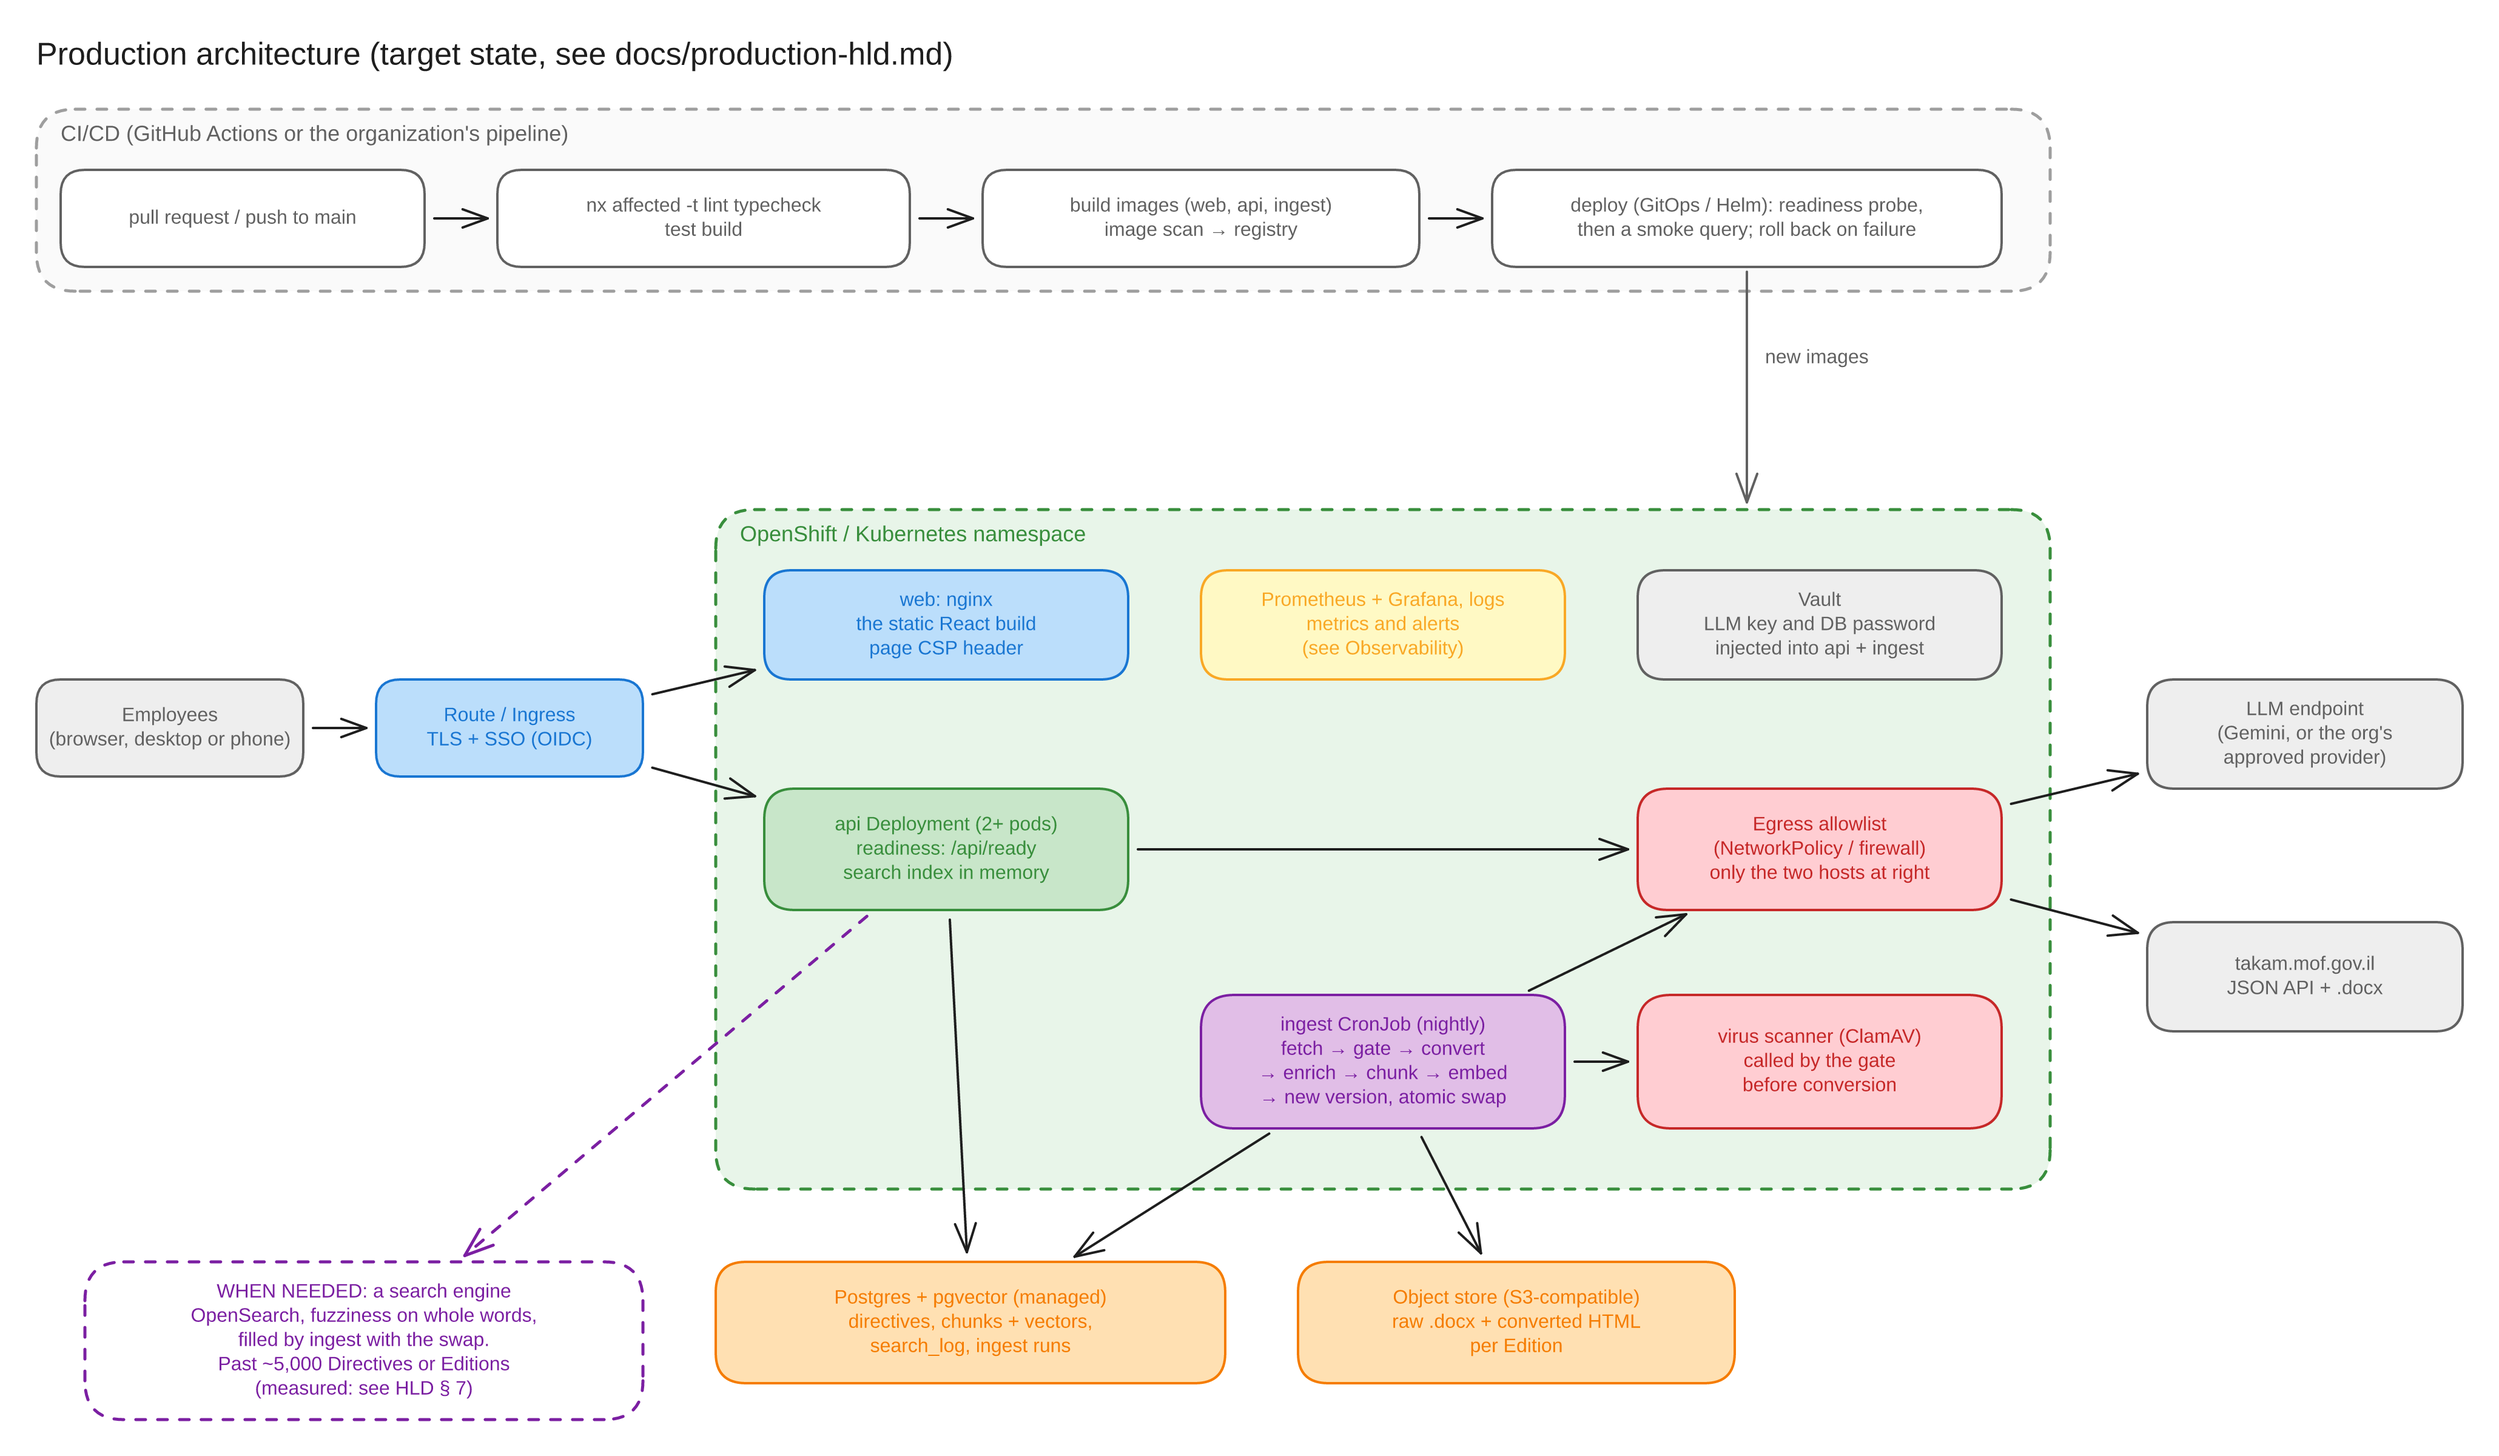
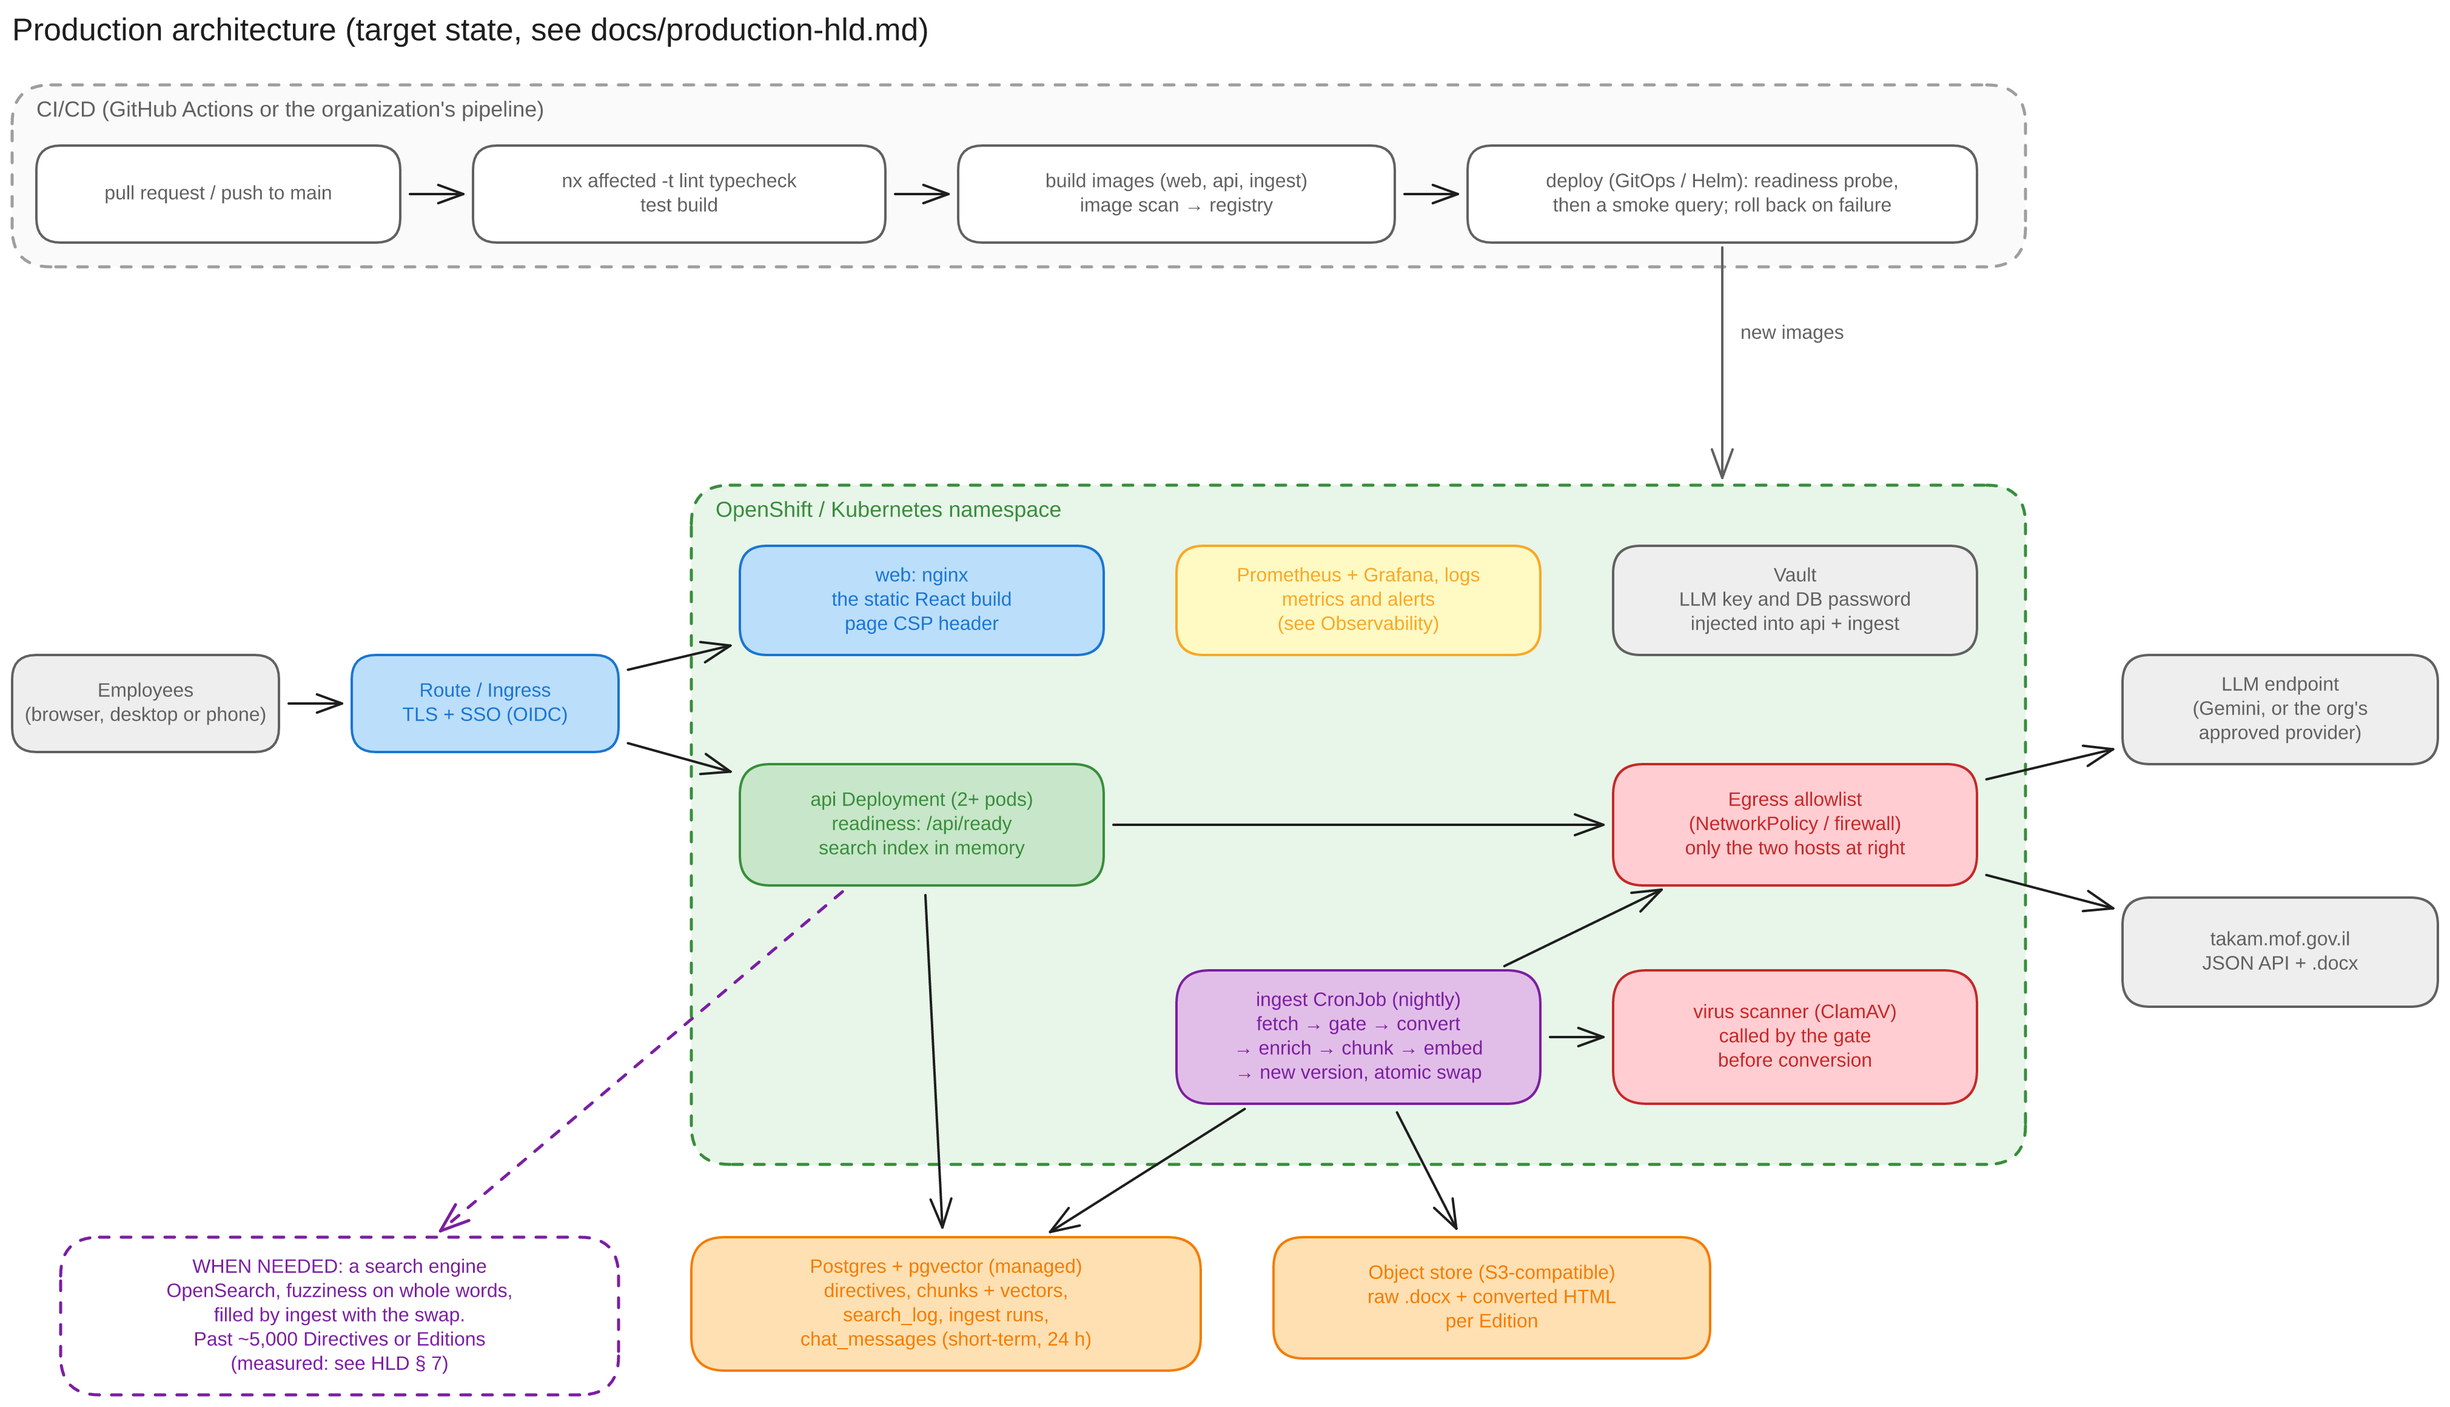
docs: short-term chat history in the production HLD and diagram

diff --git a/docs/production-hld.md b/docs/production-hld.md
@@ -22,6 +22,12 @@ The organization's container platform (OpenShift or another Kubernetes) runs thr
 
 **Postgres + pgvector** (the organization's managed Postgres) replaces SQLite (ADR 0003 names it as the production store). The tables are the same: `directives` (metadata, enrichment, HTML), `chunks` (text and embedding, now a `vector(768)` column with an HNSW index), `search_log`, plus an `ingest_runs` table (start, end, counts, and whether the run was swapped in). The API still keeps MiniSearch in memory for the Directive search. For all of Takam it builds in about 0.1 s and takes about 16 MB per pod (measured; see section 7). The chat's vector search moves into Postgres (`ORDER BY embedding <=> $1 LIMIT 5`). In memory it would still take only about 15 ms for 7,000 chunks, but in Postgres every pod shares one copy, and the index is updated when the swap happens.
 
+**Chat history, short-term only.** The POC sends each question on its own (README, "no history"), so a follow-up like "and abroad?" fails. Production keeps the last few turns of each conversation, so people can ask follow-ups. The API runs on 2 or more pods, and the next question can land on another pod, so the history can't stay in a pod's memory. It goes in the same Postgres, in one more table, not in a new database:
+- `chat_messages`: conversation id, role (user or assistant), text, time. The web app makes the conversation id when a conversation starts, and makes a new one on "new conversation".
+- **Short-term:** the API reads only the last 6 messages of the conversation, and a job deletes every conversation 24 hours after its last message. The questions are personal data, so they are kept only as long as a conversation lasts.
+- **Outside the ingest schemas:** the table lives in its own schema, so a nightly swap or a rollback never touches it.
+- **The Citation check stays the same.** The history is used for one thing: a new first step in the graph has the LLM rewrite a follow-up into a standalone question. Retrieve, generate and the Citation check then work on that question, as they do in the POC, so every answer is still checked against the passages it cites.
+
 **The atomic swap stays, in a form that suits Postgres.** The POC writes `takam.db.tmp` and renames it. In production, each run writes into a new schema (`ingest_20261124`). When the run passes the 20% rules, one transaction points the `current` view (or a one-row `active_run` table the API reads) at the new schema. The API's pods pick it up on their next index rebuild (a background refresh every few minutes, or a rolling restart that the CronJob triggers). A failed run never touches what the API reads. Old schemas are dropped after 7 days, so a rollback to last night is one `UPDATE`.
 
 **An object store** (S3-compatible: OpenShift Data Foundation, MinIO or a cloud bucket) holds the raw `.docx` of every Edition and its converted HTML, keyed `{code}/{edition}/`. That replaces the gitignored `data/raw/`. It keeps the evidence behind every stored Directive, and incremental ingest can skip an Edition it already has (see "Scale").
@@ -112,4 +118,4 @@ The API and ingest export Prometheus metrics, and logs go to the cluster's log s
   - **Past about 5,000 Directives, or when a search must be under 50 ms:** add a search engine. Every pod would otherwise hold and rebuild its own large copy, and the time grows with the size. This is the dashed box in the production diagram: **OpenSearch** (or Elasticsearch, whichever the organization runs). It is an index on disk, shared by all pods. Its `fuzziness` is the same edit distance on whole words as our `typosAllowed`: `fuzziness: "AUTO:4,8"` allows no typo up to 3 letters, one from 4, and two from 8, which is our rule exactly. (A word with a digit still has to match exactly; the API sends it with `fuzziness: 0`.) Field weights become `boost`, In force becomes a date-range filter, and ingest writes a new index and moves an alias to it, which is the same atomic swap.
   - **Hebrew stays in our code.** OpenSearch has no analyzer that applies our rules (prefix letters, ו/י, quotes, final letters). So ingest indexes the words as `normalizeWord` returns them, with a plain whitespace analyzer, and the API normalizes the query the same way. One function, already tested, decides what matches.
   - **Why not fuzzy search in Postgres:** Postgres full-text search has no Hebrew dictionary. `pg_trgm` measures how many three-letter pieces two words share, not how many letters differ. A 3–4 letter Hebrew word has only a few such pieces, so `pg_trgm` either misses a one-letter typo or matches an unrelated short word (`רכב` car, `רכז` coordinator). Postgres stays the store; it is not the fuzzy search.
-- **More users:** the API is stateless apart from its in-memory index, so it scales by adding pods (a HorizontalPodAutoscaler on CPU). Search is in memory and fast. Chat time is the LLM's, so it scales with the provider's quota, not with our pods.
+- **More users:** the API is stateless apart from its in-memory index (chat history is in Postgres, see section 1), so it scales by adding pods (a HorizontalPodAutoscaler on CPU). Search is in memory and fast. Chat time is the LLM's, so it scales with the provider's quota, not with our pods.
